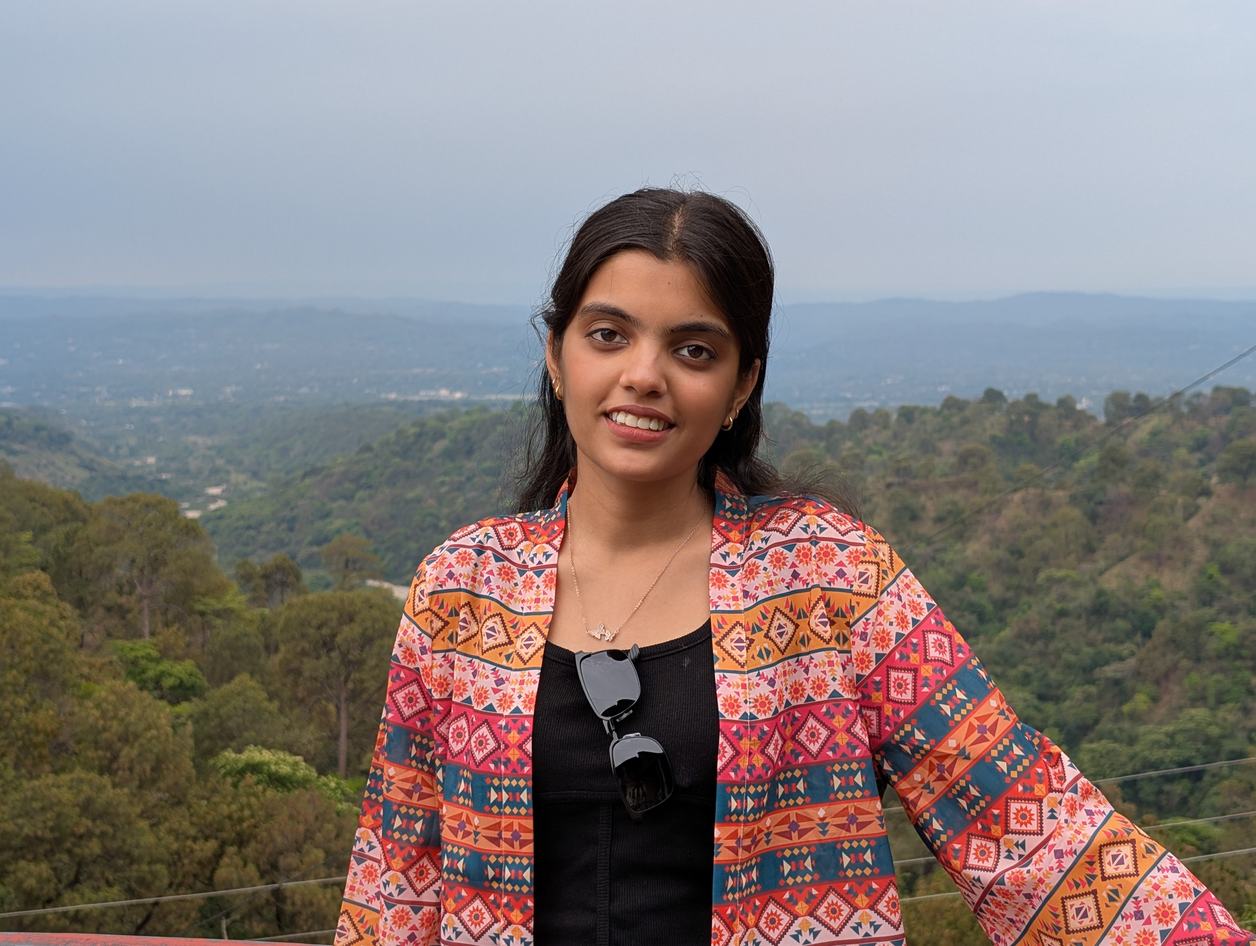
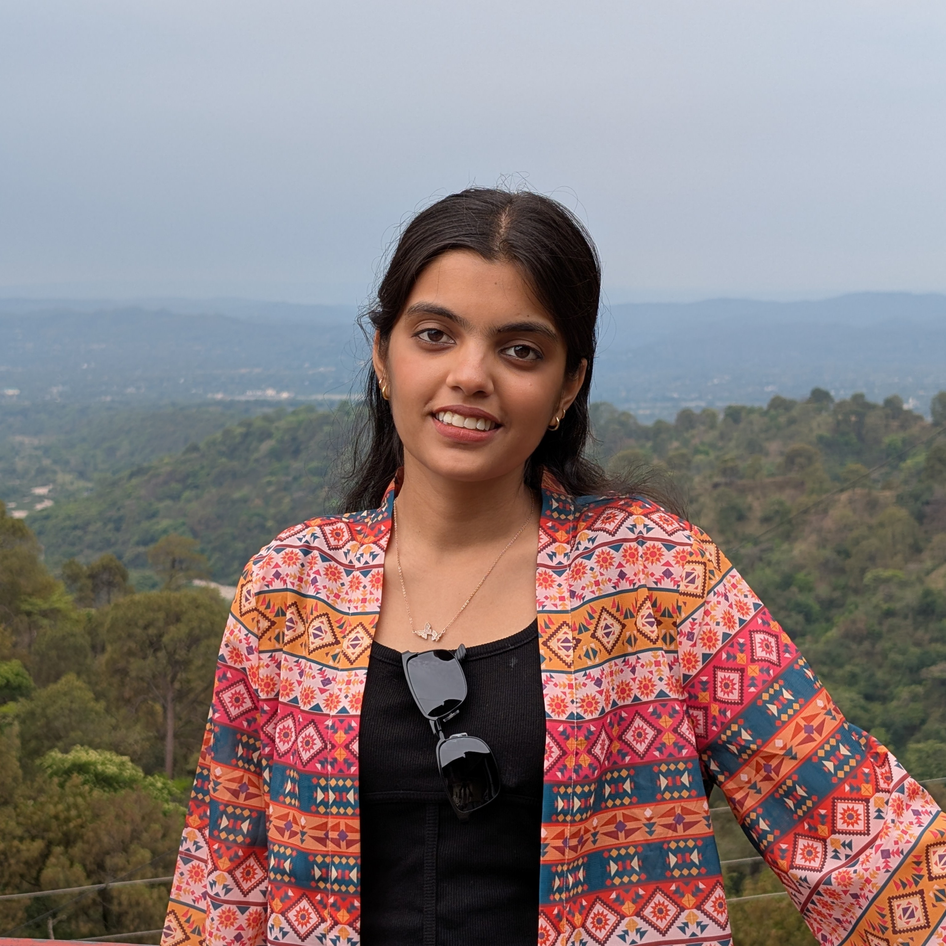
Improve About section responsiveness

diff --git a/src/components/About/about.jsx b/src/components/About/about.jsx
@@ -21,11 +21,10 @@ function About() {
 
             <p className="about-description">
 
-                I'm a Computer Science undergraduate passionate about
-                creating responsive and user-friendly web applications.
-                I enjoy learning modern frontend technologies,
-                solving problems through code, and continuously improving
-                my development skills.
+                I'm a Computer Science undergraduate passionate about building clean, 
+                responsive, and user-friendly web applications. I enjoy turning ideas into 
+                interactive experiences using React and JavaScript while continuously 
+                improving my problem-solving skills through DSA and modern web development.
 
             </p>
 
